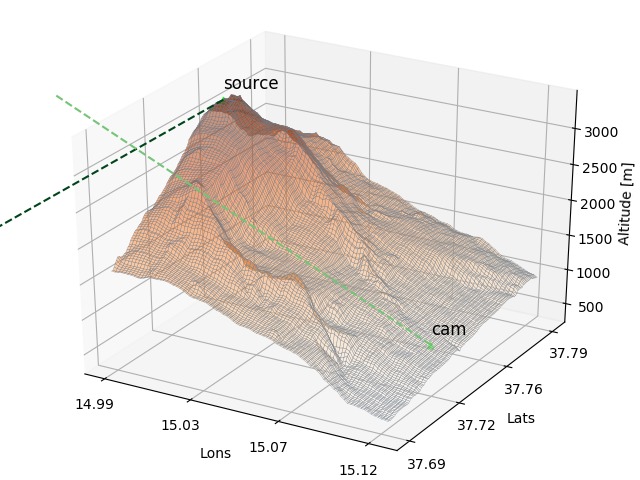
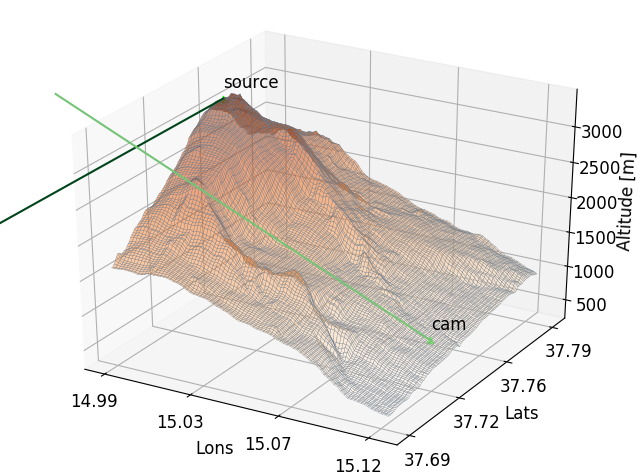
Minor changes to plotting functionality (colours) of overview maps

diff --git a/geonum/mapping.py b/geonum/mapping.py
@@ -460,8 +460,10 @@ class Map(Basemap):
             kwargs["length"] = l
         if l < 40:
             str_format = '%.1f'
-        if not "fontsize" in kwargs:
-            kwargs["fontsize"] = 8
+# =============================================================================
+#         if not "fontsize" in kwargs:
+#             kwargs["fontsize"] = 8
+# =============================================================================
         if not "lon0" in kwargs:
             kwargs["lon0"] = lon_center
             kwargs["lat0"] = lat_center
@@ -518,7 +520,8 @@ class Map(Basemap):
     
         
     def draw_coordinates(self, lat_tick=None, lon_tick=None,
-                         labelslon=[0,0,0,1], labelslat=[1,0,0,0], **kwargs):
+                         labelslon=[0,0,0,1], labelslat=[1,0,0,0], 
+                         **kwargs):
         """Draws meridians and parallels 
         
         :param float lat_tick: latitude separation (in decimal degrees)
@@ -543,9 +546,15 @@ class Map(Basemap):
             except:
                 pass
         self.meridians = meridians
-        self.parallels = self.drawparallels(lat_tick_array, labels=labelslat, 
-                                            **kwargs)
-        
+        self.parallels = ps =self.drawparallels(lat_tick_array, 
+                                                labels=labelslat, 
+                                                **kwargs)
+        for p in ps:
+            try:
+                ps[p][1][0].set_rotation(25)
+            except:
+                print("Could not rotate parallel...")
+            
     def remove_coordinates(self):
         """Remove drawn parallels and meridians"""
         if self.meridians is not None:
@@ -562,8 +571,10 @@ class Map(Basemap):
         """Insert a legend"""
         if ax is None:
             ax = self.ax
-        if not "fontsize" in kwargs:
-            kwargs["fontsize"] = 10
+# =============================================================================
+#         if not "fontsize" in kwargs:
+#             kwargs["fontsize"] = 10
+# =============================================================================
         ax.legend(loc="best", fancybox=True, framealpha=0.7, **kwargs)\
             .draggable()
                                                                 
@@ -889,7 +900,7 @@ class Map(Basemap):
         """
         if ax is None:
             ax = self.ax
-        cb = self.fig.colorbar(obj, shrink=0.95, ax=ax, **kwargs)
+        cb = self.fig.colorbar(obj, shrink=0.9, ax=ax, **kwargs)
         if isinstance(label, str):
             cb.set_label(label, fontsize=16)
         self.colorbars[obj_id] = cb

diff --git a/geonum/geosetup.py b/geonum/geosetup.py
@@ -25,7 +25,7 @@ from numpy import asarray, nanmin, nanmax
 from os.path import exists
 from traceback import print_exc
 from warnings import warn
-from matplotlib.pyplot import subplots, get_cmap
+from matplotlib.pyplot import get_cmap, figure
 
 from .base import GeoPoint, GeoVector3D
 from .topodata import TopoDataAccess, TopoData
@@ -483,13 +483,15 @@ class GeoSetup(object):
             
         """
         if not "ax" in kwargs:
-            fig, ax = subplots(1,1)
+            #fig, ax = subplots(1,1)
+            fig = figure(figsize=(10,8))
+            ax = fig.add_axes([0.12,0.15,0.8,0.8])
             kwargs["ax"] = ax
         m = self.create_map(*args, **kwargs)
         if draw_coastline:
             m.drawcoastlines()
         if draw_topo:
-            m.draw_topo(insert_colorbar = True)
+            m.draw_topo(insert_colorbar=True)
             m.draw_topo_contour()        
         m.draw_coordinates()
         if draw_mapscale:
@@ -513,6 +515,7 @@ class GeoSetup(object):
         if draw_all_vectors:
             for i, vec in enumerate(self.vectors.values()):
                 m.draw_geo_vector_2d(vec, 
+                                     ls="-",
                                      c=self.cmap(nums[i]),
                                      label=vec.name)
         if draw_legend:
@@ -587,6 +590,7 @@ class GeoSetup(object):
                 try:
                     m.draw_geo_vector_3d(vec, label=vec.name,
                                          c=self.cmap(nums[i]),
+                                         ls="-",
                                          **kwargs)
                 except Exception as e:
                     warn("Vector %s could not be drawn: %s"

diff --git a/scripts/ex2_geosetup_intro.py b/scripts/ex2_geosetup_intro.py
@@ -4,12 +4,13 @@ Introduction into the GeoSetup class
 """
 
 from geonum import GeoPoint, GeoVector3D, GeoSetup
-from matplotlib.pyplot import show, close
+from matplotlib.pyplot import show, close, rcParams
 from os.path import join
 from os import getcwd
 ### Set save directory for figures
 save_path = join(getcwd(), "scripts_out")
 
+rcParams["font.size"] = 12
 def create_geosetup():
     s = GeoSetup() 
     
